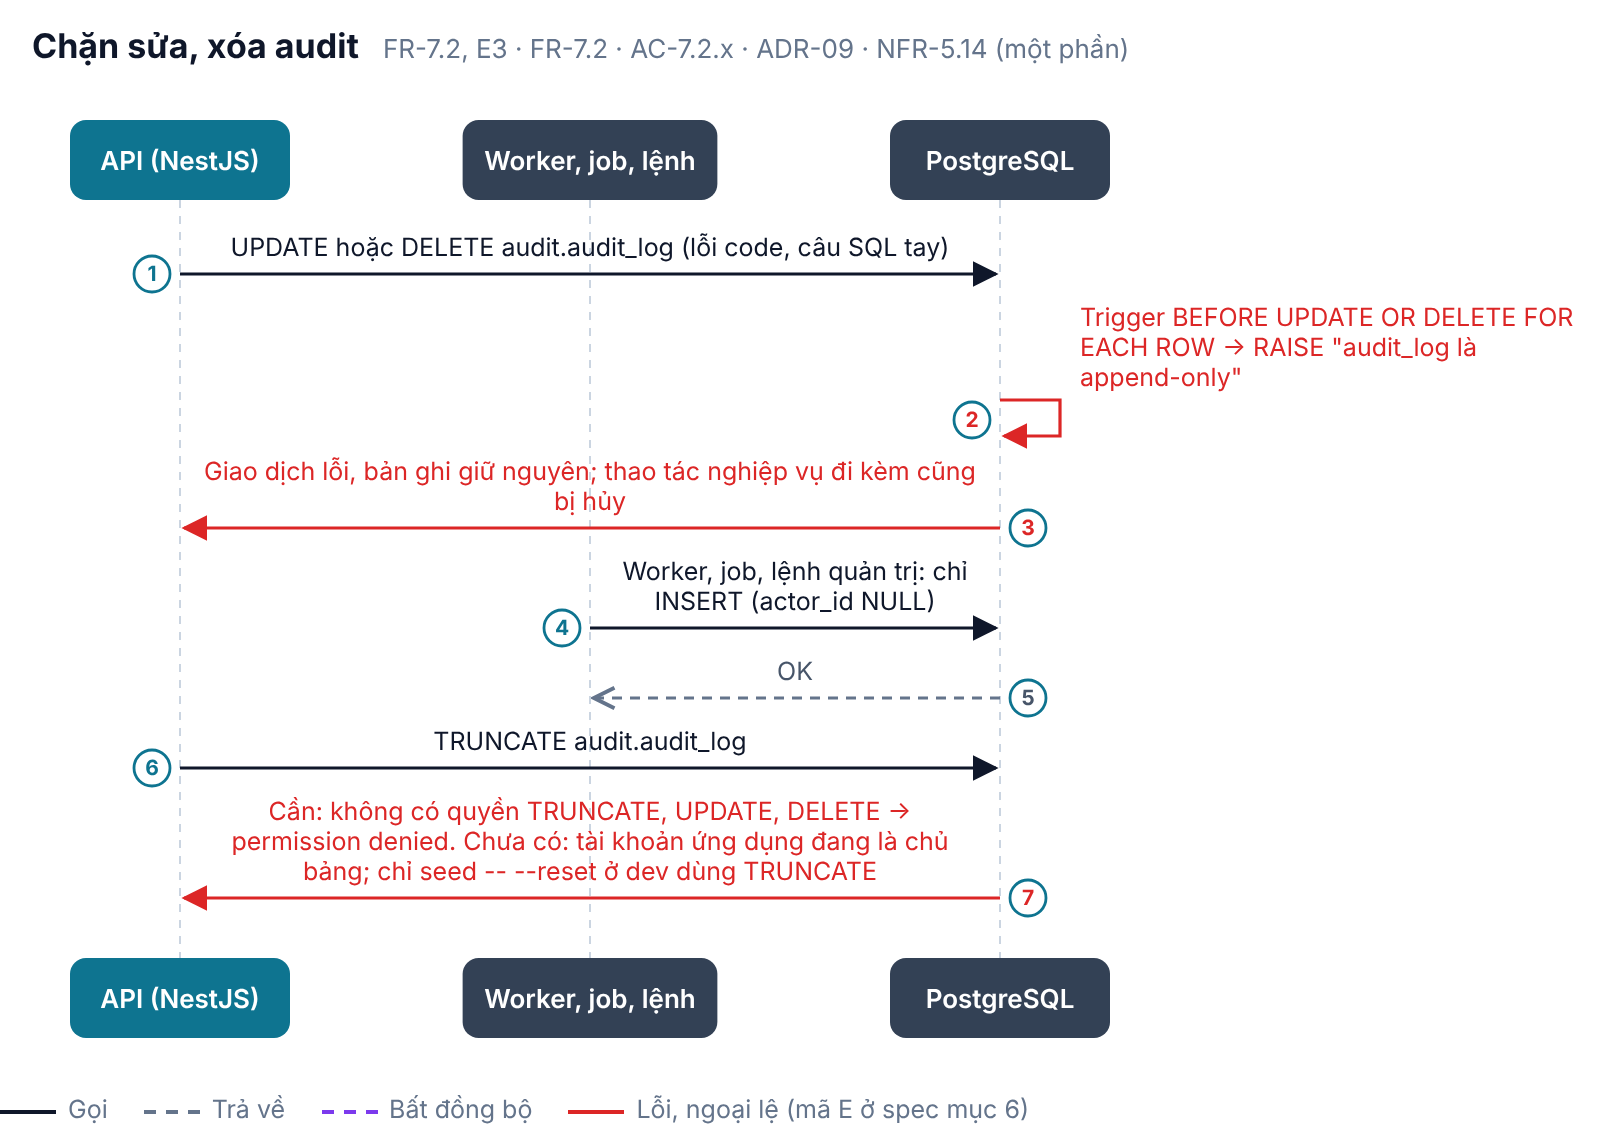
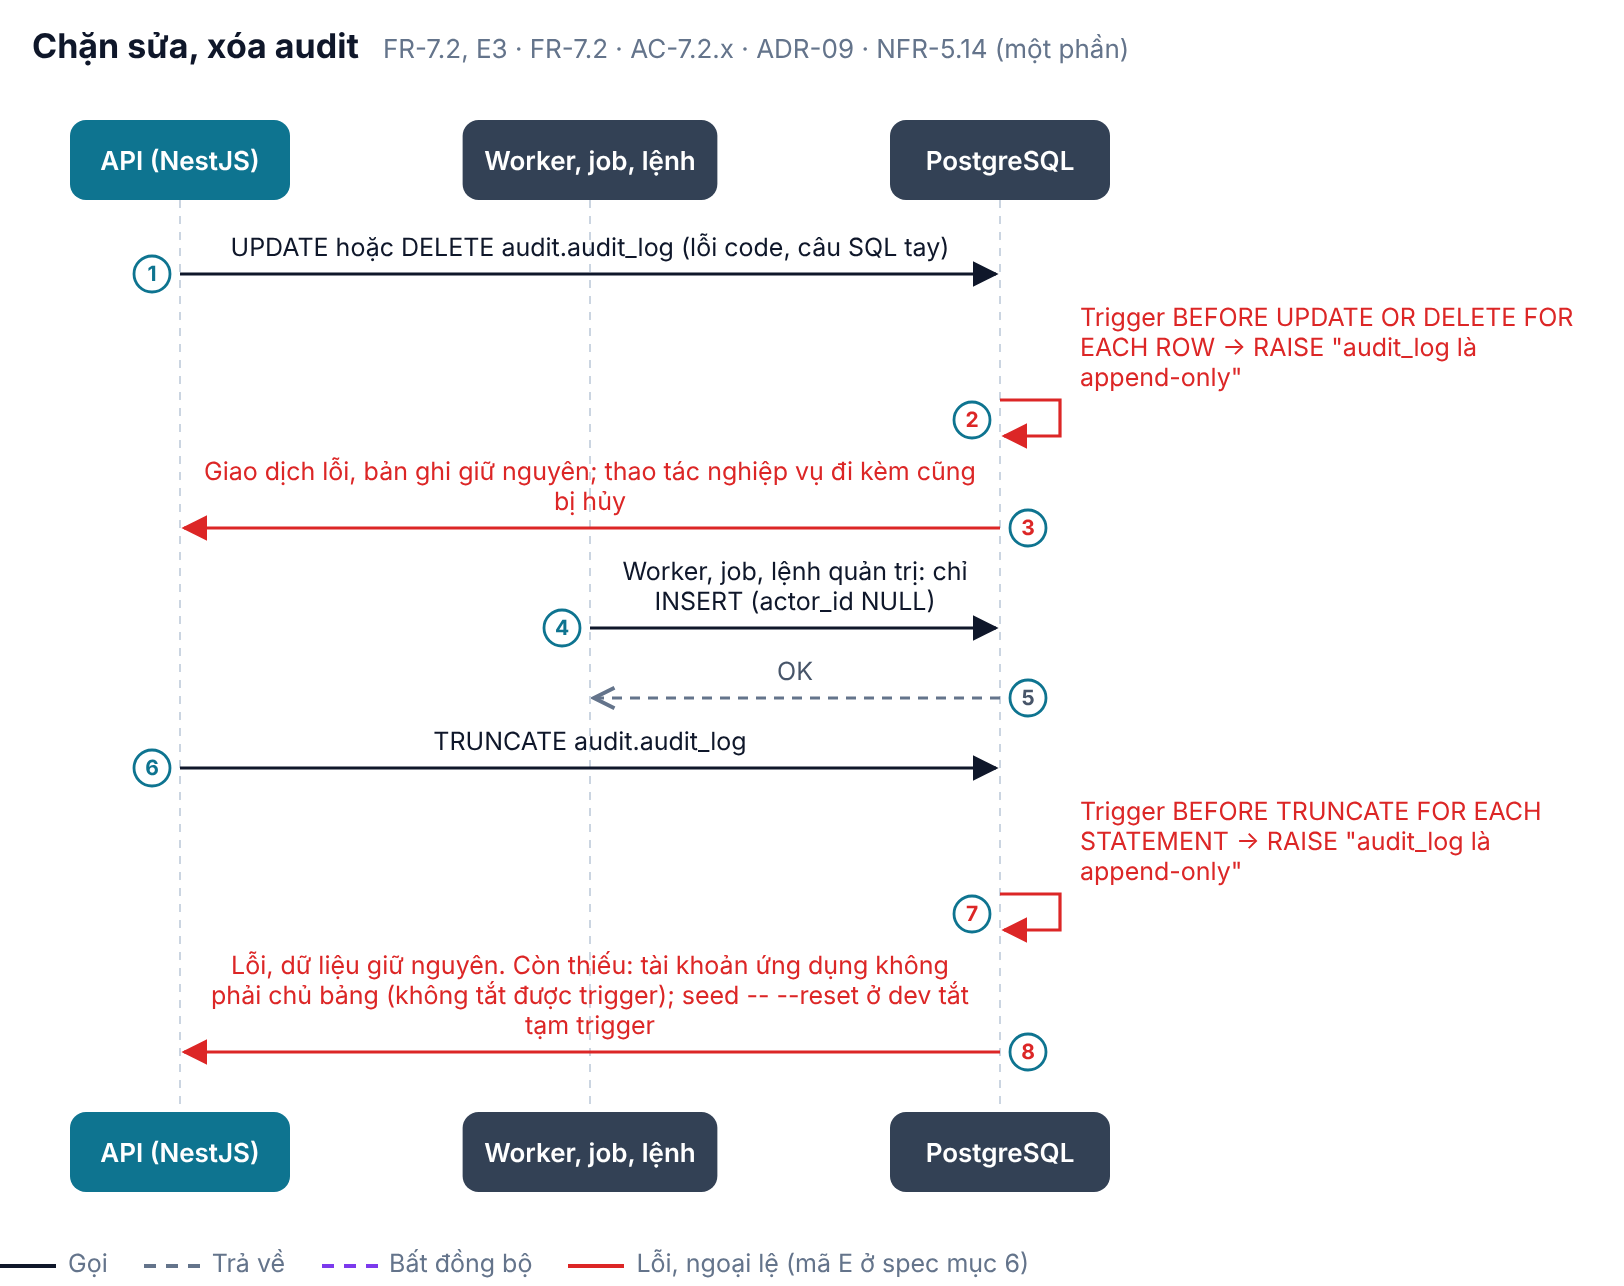
docs: cập nhật trạng thái ngoại lệ đã code (spec, test.md, database-schema, flows UC7, staging-readiness); thêm ca e2e E22 hủy rồi gán lại
Claude-Session: https://claude.ai/code/session_01KbewUuaWp4SBxr95Xgq7xx

diff --git a/docs/features/UC7-audit-log/flows/flows.html b/docs/features/UC7-audit-log/flows/flows.html
@@ -212,7 +212,7 @@ const FLOWS = [
 {
   id: 'f3', grp: 'Ghi', name: 'Chặn sửa, xóa audit', sub: 'FR-7.2, E3',
   refs: 'FR-7.2 · AC-7.2.x · ADR-09 · NFR-5.14 (một phần)',
-  intro: 'Trigger trg_audit_append_only chặn mọi UPDATE, DELETE, kể cả từ code lỗi hay tài khoản quản trị. Chưa có lớp quyền database: tài khoản ứng dụng vẫn là chủ bảng, nên TRUNCATE (trigger theo dòng không bắt) chưa bị chặn. Hết hạn 5 năm (BR-13) chỉ archive hoặc hủy bằng quy trình có phê duyệt.',
+  intro: 'Trigger trg_audit_append_only chặn mọi UPDATE, DELETE, kể cả từ code lỗi hay tài khoản quản trị. Trigger trg_audit_no_truncate (theo câu lệnh) chặn TRUNCATE. Chưa có lớp quyền database: tài khoản ứng dụng là chủ bảng nên vẫn tắt được trigger. Hết hạn 5 năm (BR-13) chỉ archive hoặc hủy bằng quy trình có phê duyệt.',
   type: 'seq', p: ['A', 'J', 'D'],
   m: [
     { f: 'A', t: 'D', l: 'UPDATE hoặc DELETE audit.audit_log (lỗi code, câu SQL tay)' },
@@ -221,7 +221,8 @@ const FLOWS = [
     { f: 'J', t: 'D', l: 'Worker, job, lệnh quản trị: chỉ INSERT (actor_id NULL)' },
     { f: 'D', t: 'J', l: 'OK', k: 'ret' },
     { f: 'A', t: 'D', l: 'TRUNCATE audit.audit_log' },
-    { f: 'D', t: 'A', l: 'Cần: không có quyền TRUNCATE, UPDATE, DELETE → permission denied. Chưa có: tài khoản ứng dụng đang là chủ bảng; chỉ seed -- --reset ở dev dùng TRUNCATE', k: 'err', s: 'NFR-5.14 (chưa đạt)' },
+    { f: 'D', t: 'D', l: 'Trigger BEFORE TRUNCATE FOR EACH STATEMENT → RAISE "audit_log là append-only"', k: 'err', s: 'E10' },
+    { f: 'D', t: 'A', l: 'Lỗi, dữ liệu giữ nguyên. Còn thiếu: tài khoản ứng dụng không phải chủ bảng (không tắt được trigger); seed -- --reset ở dev tắt tạm trigger', k: 'err', s: 'NFR-5.14 (một phần)' },
   ],
 },
 {

diff --git a/backend/test/app.e2e-spec.ts b/backend/test/app.e2e-spec.ts
@@ -1854,10 +1854,17 @@ describe('HRHelper API (e2e)', () => {
 
     it('gán trưởng cho người sắp điều chuyển sang nhánh khác: 409 (E22)', async () => {
       const a = await mk('Sắp Sang Marketing', leg.id, leg.headEmployeeId);
-      await post(a.id, body(a, { departmentId: mkt.id, managerId: mkt.headEmployeeId, effectiveDate: plus(5) })).expect(201);
+      const t = (await post(a.id, body(a, { departmentId: mkt.id, managerId: mkt.headEmployeeId, effectiveDate: plus(5) })).expect(201)).body;
       const res = await http.patch(`/api/v1/departments/${leg.id}`).set(HR).send({ headEmployeeId: a.id }).expect(409);
       expect(res.body.message).toMatch(/sắp điều chuyển/);
       expect((await http.get(`/api/v1/departments/${leg.id}`).set(HR)).body.head.id).toBe(leg.headEmployeeId);
+      // Hủy điều chuyển thì gán được; trả lại trưởng cũ.
+      await http.delete(`/api/v1/employees/${a.id}/transfers/${t.id}`).set(HR).expect((r) => expect(r.status).toBeLessThan(300));
+      try {
+        await http.patch(`/api/v1/departments/${leg.id}`).set(HR).send({ headEmployeeId: a.id }).expect(200);
+      } finally {
+        await http.patch(`/api/v1/departments/${leg.id}`).set(HR).send({ headEmployeeId: leg.headEmployeeId }).expect(200);
+      }
     });
 
     it('nghỉ việc hủy yêu cầu sửa hồ sơ đang chờ, lý do TERMINATED; HR duyệt yêu cầu cũ 409 (UC1 E29)', async () => {

diff --git a/backend/src/modules/audit/audit.controller.ts b/backend/src/modules/audit/audit.controller.ts
@@ -50,7 +50,11 @@ class AuditLogQuery extends PageQuery {
   @IsString()
   from?: string;
 
-  @ApiPropertyOptional({ description: 'YYYY-MM-DD (tính cả ngày, giờ Việt Nam) hoặc ngày giờ ISO 8601; tính cả mốc', example: '2026-11-01' })
+  @ApiPropertyOptional({
+    description:
+      'YYYY-MM-DD (tính cả ngày, giờ Việt Nam) hoặc ngày giờ ISO 8601; tính cả mốc. Không có `actor`, `entityId` thì khoảng tối đa 366 ngày (UC7 E6); page × size tối đa 10.000 (E7)',
+    example: '2026-11-01',
+  })
   @IsOptional()
   @IsString()
   to?: string;

diff --git a/docs/architecture/database-schema.md b/docs/architecture/database-schema.md
@@ -8,6 +8,7 @@
 |---|---|---|---|
 | 1.0 | 13/11/2026 | TV1 Duong | Bản đầu: 7 schema, 17 bảng, theo 4 migration tới `Documents` (tuần 10) |
 | 1.1 | 18/11/2026 | TV1 Duong | UC1: thêm `iam.rate_limit_counter`, `employee.profile_item`, `employee.profile_change_request`, `employee.profile_file`, cột `employee.avatar_file_id` (3 migration, #85 → #87); đọc, ghi chéo schema trong code (mục 9) |
+| 1.2 | 25/11/2026 | TV1 Duong (Claude viết) | Migration `ExceptionGuards`: trigger `trg_audit_no_truncate`, cột `employee.profile_change_request.cancel_reason` (UC7 E10, UC1 E29) |
 
 ## 1. Tổng quan
 
@@ -308,6 +309,7 @@ erDiagram
     uuid submitted_by
     uuid reviewed_by
     varchar reject_reason
+    varchar cancel_reason "TERMINATED"
     varchar idempotency_key
   }
   profile_file {
@@ -410,6 +412,7 @@ Yêu cầu cập nhật hồ sơ (FR-1.9): nhân viên đề xuất, HR duyệt 
 | `reviewed_by`, `reviewed_at` | uuid, timestamptz | | HR duyệt, từ chối |
 | `reject_reason` | varchar(500) | | Chỉ chủ hồ sơ và HR thấy; **không** vào audit |
 | `acknowledged_at` | timestamptz | | Nhân viên đã đóng thông báo bị từ chối |
+| `cancel_reason` | varchar(20) | | `TERMINATED` khi hệ thống hủy vì chủ hồ sơ nghỉ việc (UC1 E29, migration `ExceptionGuards`); NULL khi người gửi tự hủy |
 | `idempotency_key` | varchar(100) | NN, UQ `(submitted_by, idempotency_key)` | Gửi lại cùng khóa trả yêu cầu cũ (AC-1.9.12) |
 
 Index:
@@ -659,7 +662,9 @@ erDiagram
   }
 ```
 
-Append-only (ADR-09): trigger `trg_audit_append_only` gọi hàm `audit.forbid_change()` và báo lỗi với mọi `UPDATE`/`DELETE`.
+Append-only (ADR-09): trigger `trg_audit_append_only` (theo dòng) gọi hàm `audit.forbid_change()` và báo lỗi với mọi
+`UPDATE`/`DELETE`; trigger `trg_audit_no_truncate` (theo câu lệnh, migration `ExceptionGuards`, UC7 E10) chặn `TRUNCATE`. Chủ
+bảng vẫn tắt được trigger (seed `--reset` ở dev làm vậy trong giao dịch); tách quyền database là NFR-5.14.
 Ghi trong cùng transaction với thao tác nghiệp vụ (`AuditService.record(entry, manager)`).
 
 | Cột | Kiểu | Ràng buộc | Mô tả |
@@ -874,7 +879,7 @@ nghỉ việc chuyển `TERMINATED`), nên không phát sinh tham chiếu treo.
 | UQ một phần `ux_department_company`, CHECK `ck_department_company_root` | `org.department` | Đúng một Công ty, và Công ty là gốc duy nhất của cây (ADR-14) |
 | UQ một phần `ux_assignment_active`, `ux_assignment_scheduled` | `employee.employment_assignment` | Mỗi người một dòng đang hiệu lực, tối đa một điều chuyển chờ |
 | CHECK `effective_to >= effective_from - 1`, CHECK `reason`, `status` | `employee.employment_assignment` | Quá trình công tác không có khoảng ngày âm |
-| Trigger `trg_audit_append_only` | `audit.audit_log` | Không sửa, không xóa log |
+| Trigger `trg_audit_append_only`, `trg_audit_no_truncate` | `audit.audit_log` | Không sửa, xóa, `TRUNCATE` log |
 | UQ `(document_id, version_no)` | `document.document_version` | Không có hai file cùng số phiên bản |
 | UQ một phần `uq_profile_change_pending_place`, `uq_profile_change_pending_main` | `employee.profile_change_request` | Mỗi trường hoặc dòng chỉ một yêu cầu đang chờ |
 | UQ `(submitted_by, idempotency_key)` | `employee.profile_change_request` | Gửi trùng không tạo hai yêu cầu |

diff --git a/docs/features/UC3-create-leave-request/test.md b/docs/features/UC3-create-leave-request/test.md
@@ -75,4 +75,4 @@ Email: mở Mailpit http://localhost:8025 sau khi tạo đơn.
 - Bổ sung e2e cho AC-3.6.1 với đơn `PENDING_HR` (TC-26) và chặn tự hủy từ `startDate` (TC-27).
 - Thực hiện TC-23 → TC-31 khi TV1 hoàn thành tính số dư, nghỉ theo sự kiện, đơn qua năm, lịch lễ, hủy đơn và hạn mức BHXH; các ca này hiện là tiêu chí nghiệp vụ, chưa phải kết quả test.
 - AC-3.7.x khi `feat/leave-delegation` xong, kèm ca bảo mật chặn quản lý gọi `GET /leave-balances?employeeId=` của nhân viên không phải cấp dưới trực tiếp (`403`).
-- Ngoại lệ bổ sung [spec mục 6.1](spec.md#61-ngoại-lệ-bổ-sung-rà-24112026) (E15 → E21): E16 cần ca riêng cho `startDate < hireDate` (400), ngày bắt đầu đúng 31/12 năm kế tiếp (được nhận) và ngày sau đó (400). Thêm ca khoảng nghỉ >1 năm với loại phép không cấu hình trần thời lượng để xác nhận không bị chặn bởi giới hạn toàn cục; chưa phải kết quả đã chạy.
+- Ngoại lệ bổ sung [spec mục 6.1](spec.md#61-ngoại-lệ-bổ-sung-rà-24112026) (E15 → E21): E16 cần ca riêng cho `startDate < hireDate` (400), ngày bắt đầu đúng 31/12 năm kế tiếp (được nhận) và ngày sau đó (400). Thêm ca khoảng nghỉ >1 năm với loại phép không cấu hình trần thời lượng để xác nhận không bị chặn bởi giới hạn toàn cục. **E16 đã có e2e** cho hai điều kiện ngày và đúng mốc 31/12 (chạy xanh 25/11); ca khoảng nghỉ >1 năm còn chờ TV4.

diff --git a/docs/features/UC7-audit-log/deploy.md b/docs/features/UC7-audit-log/deploy.md
@@ -28,7 +28,8 @@ Không có biến riêng. `traceId` lấy từ header `X-Trace-Id` (NFR-6.4). IP
 
 - Trigger chặn UPDATE, DELETE được tạo cùng migration; không cần bước tay.
 - Không chạy lệnh dọn dữ liệu nào lên `audit.audit_log`: trigger sẽ chặn và làm lỗi cả giao dịch.
-- **Seed với `--reset` xóa sạch audit** bằng `TRUNCATE` (trigger theo dòng không chặn `TRUNCATE`). Seed không `--reset` thì
+- **Seed với `--reset` xóa sạch audit**: tắt tạm trigger `trg_audit_no_truncate` (chủ bảng làm được) rồi `TRUNCATE` trong cùng
+  giao dịch. Seed không `--reset` thì
   bỏ qua khi đã có nhân viên. Không chạy `--reset` trên staging sau khi đã demo.
 
 ## 5. Kiểm tra sau deploy
@@ -48,5 +49,5 @@ Không có biến riêng. `traceId` lấy từ header `X-Trace-Id` (NFR-6.4). IP
 
 - Audit đăng nhập và cấp, thu hồi vai trò (NFR-5.10) cần lấy event từ Keycloak và Cognito; tuần 13 nếu còn thời gian.
 - Chưa có quy trình archive sau 5 năm (BR-13).
-- `TRUNCATE` vượt qua trigger append-only. Đề xuất: tài khoản database của ứng dụng trên staging không có quyền `TRUNCATE`
-  bảng audit (NFR-5.14), chỉ tài khoản quản trị chạy seed `--reset`.
+- `TRUNCATE` đã bị trigger `trg_audit_no_truncate` chặn (E10), nhưng tài khoản ứng dụng là chủ bảng nên vẫn tắt được trigger.
+  Đề xuất: trên staging, tài khoản ứng dụng không phải chủ bảng, không có quyền `TRUNCATE` (NFR-5.14, staging-readiness L3).

diff --git a/docs/cloud/staging-readiness.md b/docs/cloud/staging-readiness.md
@@ -77,7 +77,7 @@ aws ecs run-task --cluster hr-platform-staging-cluster --task-definition hr-plat
 |---|---|---|---|
 | L1 | Bucket tài liệu SSE-S3 (`AES256`), NFR-5.16 cần SSE-KMS; CORS cho `PUT`, `GET`, `HEAD`, ADR-13 chỉ cần `PUT` | [UC5 deploy.md mục 3](../features/UC5-document-repository/deploy.md#3-hạ-tầng) | TV3 |
 | L2 | Queue `identity-sync` riêng, SNS `hr-events` fan-out (ADR-15), Lambda Post-authentication | Hiện mọi event đi chung queue `leave-notifications`, worker xử lý được. Làm khi tách dịch vụ thông báo | TV3 |
-| L3 | `TRUNCATE` vượt trigger append-only của audit (NFR-5.14) | User ứng dụng là chủ bảng. Không chạy seed `--reset` trên staging | TV3, TV1 |
+| L3 | Tách quyền database cho bảng audit (NFR-5.14) | `TRUNCATE` đã bị trigger chặn (UC7 E10), nhưng user ứng dụng là chủ bảng nên tắt được trigger. Cần user ứng dụng riêng, không phải chủ bảng. Không chạy seed `--reset` trên staging | TV3, TV1 |
 | L4 | Workflow chỉ chạy tay (`workflow_dispatch`) | Thêm lại `push: branches: [dev]` khi staging đã chạy ổn (tuần 12) | TV3 |
 | L5 | `force_destroy`, `skip_final_snapshot = true`, `deletion_protection = false` | Chấp nhận cho staging, không mang lên production | – |
 | L6 | Migration chạy hai lần mỗi deploy: task ECS trong workflow và `CMD` của image API khi App Runner khởi động | Không hại (migration đã chạy thì bỏ qua). Có thể bỏ khỏi `CMD` để App Runner khởi động nhanh hơn | TV1 |

diff --git a/docs/features/UC2-organization/test.md b/docs/features/UC2-organization/test.md
@@ -77,4 +77,4 @@ npm run test:e2e
 - Dữ liệu test đã theo seed mới (gốc `HQ`, loại đơn vị ADR-14). Job điều chuyển chạy 5 phút một lần, nên điều chuyển hiệu lực ngày D được áp dụng trong khoảng 00:00–00:05 ngày D (giờ Việt Nam), trước mốc 00:15 của AC-2.7.2.
 - Các ca biên nghiệp vụ trước đây còn thiếu (nghỉ việc gỡ vai trò, ngừng đơn vị có trưởng kiêm nhiệm, bảo vệ chức danh `CEO`)
   đã có test e2e ở `feat/department-admin-ui`.
-- Ngoại lệ bổ sung [spec mục 6.1](spec.md#61-ngoại-lệ-bổ-sung-rà-24112026) (E14 → E22): bổ sung ca E18 cho ngày hiệu lực đúng mốc một năm (được nhận) và ngày sau mốc (400); bổ sung ca E22 cho người có điều chuyển tương lai sang đơn vị khác (gán trưởng trả 409), rồi hủy/đổi điều chuyển và thử lại. Đây là tiêu chí cần code/test, chưa phải kết quả đã chạy.
+- Ngoại lệ bổ sung [spec mục 6.1](spec.md#61-ngoại-lệ-bổ-sung-rà-24112026) (E14 → E22): bổ sung ca E18 cho ngày hiệu lực đúng mốc một năm (được nhận) và ngày sau mốc (400); bổ sung ca E22 cho người có điều chuyển tương lai sang đơn vị khác (gán trưởng trả 409), rồi hủy/đổi điều chuyển và thử lại. **E18, E22 đã có e2e** (chạy xanh 25/11); unit test `transferHorizon` có ca 29/2.
